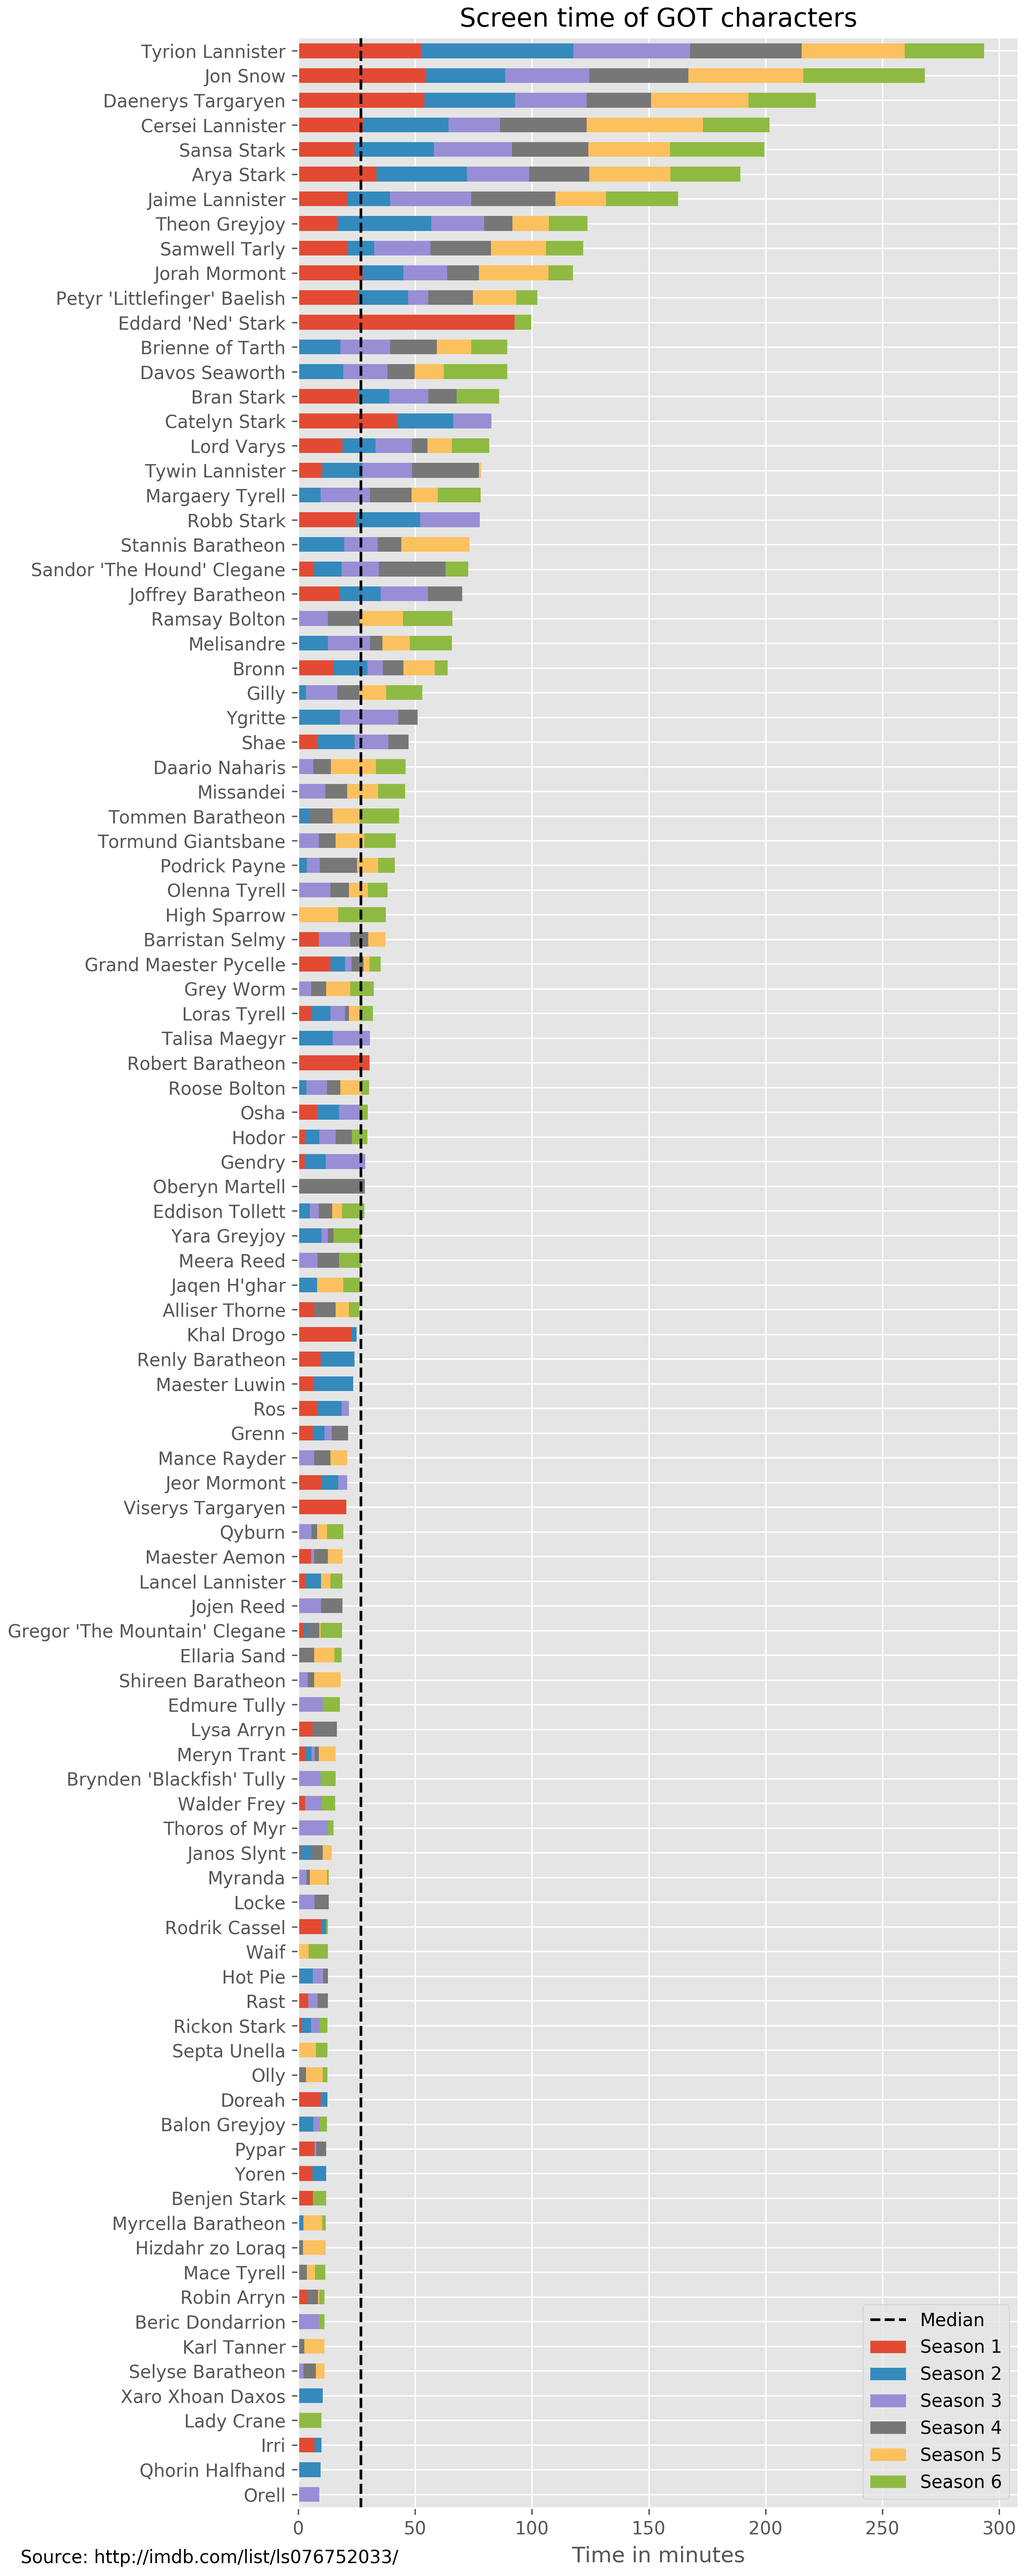
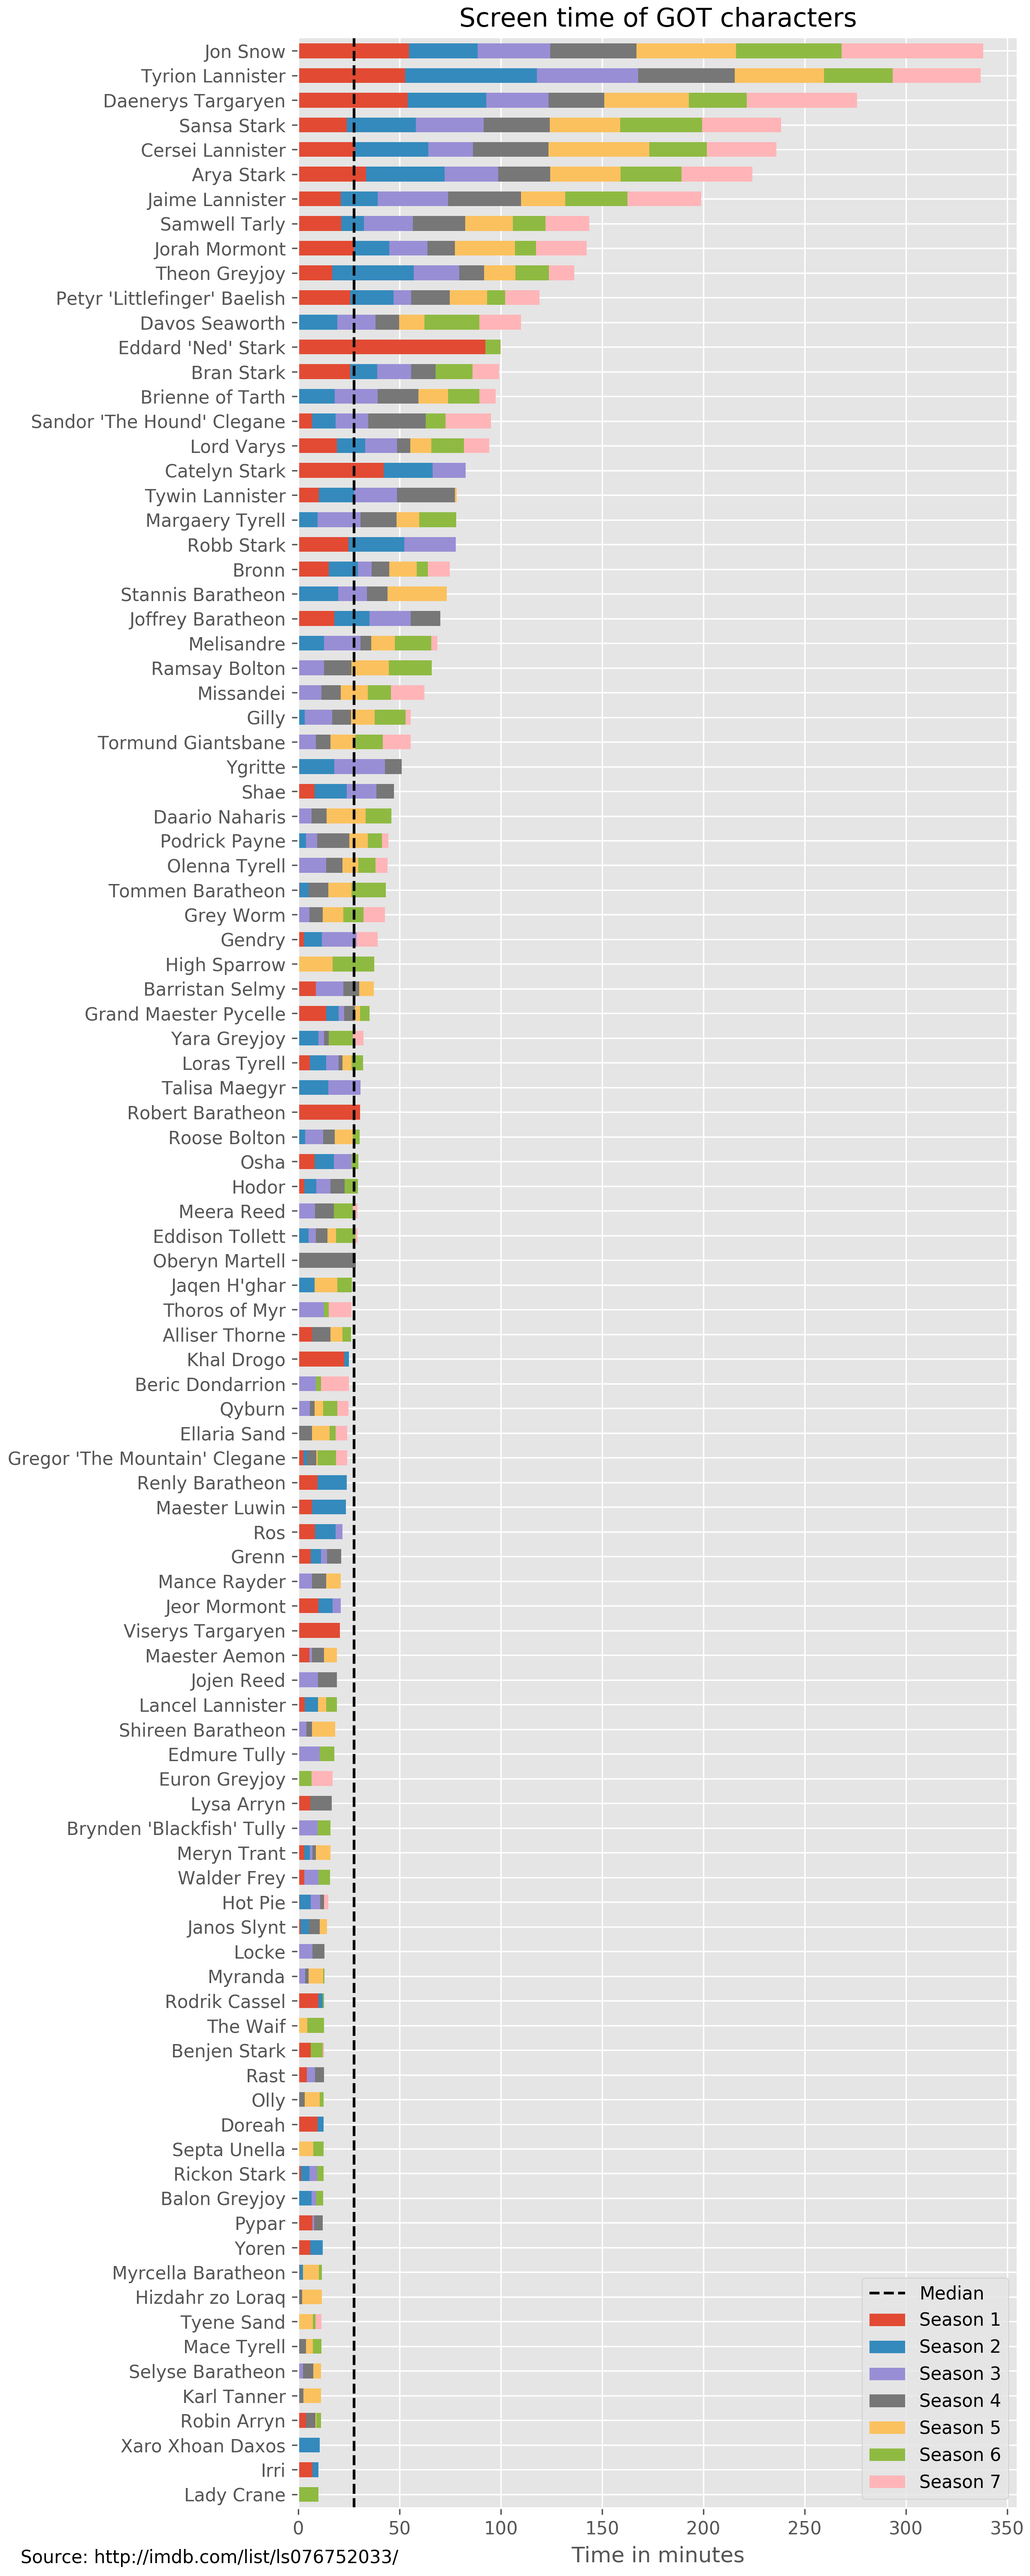
added death of characters to parse and csv

diff --git a/parse_imdb.py b/parse_imdb.py
@@ -21,33 +21,123 @@ def float_to_time(value):
     else:
         return "0:{0}".format(int(value*60))
 
-# I downloaded the page an saved as data.html
-soup = BeautifulSoup(open("data.html"), "html.parser")
+def generate_csv():
+    """
+    Generates a CSV with the name of the character, the chapter of their
+    death and the hours in every season
+    """
 
-mydivs = soup.find_all("div", class_=["info", "description"])[1:]
+    soup = BeautifulSoup(r.get('http://imdb.com/list/ls076752033/').text, "html.parser")
 
-name_regex = re.compile(r">(.*?)</a>")
+    mydivs = soup.find_all("div", class_=["info", "description"])[1:]
 
-season_regex = re.compile(r"\* [Ss]eason (\d):.*<(.*)>")
+    name_regex = re.compile(r">(.*?)</a>")
 
-characters = dict()
-for div in mydivs:
-    if div.a:
-        text = str(unescape(div.a))
-        character = name_regex.findall(text)[0]
-        characters[character] = [0, 0, 0, 0, 0, 0, 0]
+    season_regex = re.compile(r"\* [Ss]eason (\d):.*<(.*)>")
+
+    characters = dict()
+    for div in mydivs:
+        if div.a:
+            text = str(unescape(div.a))
+            character = name_regex.findall(text)[0]
+            characters[character] = [0, 0, 0, 0, 0, 0, 0]
+        else:
+            for children in div.children:
+                if "NavigableString" in type(children).__name__:
+                    text = str(children)
+                    duration = season_regex.findall(text)
+                    if duration:
+                        season, time = duration[0]
+                        characters[character][int(season) - 1] += time_to_float(time)
+
+
+    with open("all_seasons.csv", "w") as db:
+        db.write("actor,death,season_1,season_2,season_3,season_4,season_5,season_6,season_7\n")
+        for character in characters:
+            print("current: %s" % character, flush=True)
+            db.write("{0},{1},{2}\n".format(
+                character,
+                is_dead(character),
+                ",".join(list(
+                    map(float_to_time, characters[character])))
+                    )
+                )
+
+
+def parse_chapter_page(url):
+    """
+    Parse the page of a chapter getting the season and the chapter
+    in the format SxxExx
+    """
+    page_request = r.get('http://gameofthrones.wikia.com%s' % url)
+    if page_request.status_code == 200:
+        page_text = page_request.text
     else:
-        for children in div.children:
-            if "NavigableString" in type(children).__name__:
-                text = str(children)
-                duration = season_regex.findall(text)
-                if duration:
-                    season, time = duration[0]
-                    characters[character][int(season) - 1] += time_to_float(time)
+        print("No se pudo encontrar %s" % name.replace("_", " "))
+        return None
 
-with open("all_seasons.csv", "w") as db:
-    db.write("actor;season_1;season_2;season_3;season_4;season_5;season_6;season_7\n")
-    for character in characters:
-        db.write("{0};{1}\n".format(
-            character,
-            ";".join(list(map(float_to_time, characters[character])))))
+    bs = BeautifulSoup(page_text, 'html.parser')
+    # left column of gameofthrones.wikia
+    mydivs = bs.find_all("td",
+        class_=["pi-horizontal-group-item pi-data-value pi-font pi-border-color pi-item-spacing"])
+
+    season, episode = (None, None)
+    for tag in  mydivs:
+        if 'Season' in tag.text:
+            season = int(tag.text.replace("Season ", ""))
+        if 'Episode' in tag.text:
+            episode = int(tag.text.replace("Episode ", ""))
+
+    if not season or not episode:
+        print("check this one")
+        return "S00E00"
+
+    return "S%02dE%02d" % (season, episode)
+
+def is_dead(name):
+    """
+    If the character is dead, returns the chapter of his death.
+    If not, returns None
+    """
+    if name == 'Grand Maester Pycelle':
+        name = 'Pycelle'
+
+    # removing nickname to search in gameofthrones.wikia
+    nickname_regex = re.compile("'.*?' ?")
+    name = nickname_regex.sub("", name)
+    name = name.replace(" ", "_")
+
+    page_request = r.get('http://gameofthrones.wikia.com/wiki/%s' % name)
+    if page_request.status_code == 200:
+        page_text = page_request.text
+    else:
+        print("No se pudo encontrar %s" % name.replace("_", " "))
+        return None
+
+        
+    bs = BeautifulSoup(page_text, 'html.parser')
+    # left column of gameofthrones.wikia
+    mydivs = bs.find_all("div", \
+        class_=["pi-item pi-data pi-item-spacing pi-border-color"])
+
+    dead = False
+    for div in mydivs:
+        for tag in div:
+            if tag.name == 'h3' and tag.text == 'Death':
+                # print("%s:  ☠" % name.replace("_", " "), end=' ')
+                dead = True
+                continue
+
+            if dead and tag.name == 'h3' and tag.text == 'Death shown in episode':
+                # we need to do this twice cause reasons.
+                tag = tag.next_sibling
+                tag = tag.next_sibling
+                return parse_chapter_page(tag.a['href'])
+
+
+    if not dead:
+       return None
+
+
+generate_csv()
+

diff --git a/plot.py b/plot.py
@@ -5,6 +5,7 @@ import numpy as np
 
 plt.style.use("ggplot")
 
+SEASONS = list(map(lambda x: "Season %d" % x, range(1, 8)))
 
 # the time is stored as minutes:seconds, ignoring if they make more than
 # one hour.
@@ -20,7 +21,7 @@ def plot_by_time(df):
     fig = plt.figure(figsize=(8,20))
     ax = fig.add_subplot(111)
     
-    df.plot.barh(ax=ax, x='actor', y=df.columns[1:len(df.columns)-1], \
+    df.plot.barh(ax=ax, x='actor', y=df.columns[2:len(df.columns)-1], \
                     stacked=True, width=.6)
 
     ax.axvline(df.median()['total'], color='black', linestyle="dashed")
@@ -30,9 +31,9 @@ def plot_by_time(df):
     ax.set_xlabel("Time in minutes")
     fig.tight_layout(pad=0.4, w_pad=0.5, h_pad=1.0)
     plt.legend()
-    ax.legend(["Median", "Season 1", "Season 2", "Season 3", "Season 4", "Season 5", "Season 6"])
+    ax.legend(["Median"] + SEASONS)
     fig.text(.02, .005, "Source: http://imdb.com/list/ls076752033/")
-    fig.savefig("all_actors.png", dpi=300, format="png")
+    fig.savefig("out/all_actors.png", dpi=300, format="png")
 
 
 def plot_by_time_by_season(df):
@@ -42,7 +43,7 @@ def plot_by_time_by_season(df):
     cmap = plt.get_cmap('Set1')
     colors = [cmap(i) for i in np.linspace(0, 1, 6)]
 
-    for season in df.columns[1:len(df.columns)-1]:
+    for season in df.columns[2:len(df.columns)-1]:
         # we need to sort depending of the season.
         temp = df.sort_values(by=season)
 
@@ -59,7 +60,7 @@ def plot_by_time_by_season(df):
     
     fig.tight_layout(pad=0.4, w_pad=0.5, h_pad=1.0)
     fig.text(.02, .005, "Source: http://imdb.com/list/ls076752033/")
-    fig.savefig("char_by_season.png", dpi=300, format="png")
+    fig.savefig("out/char_by_season.png", dpi=300, format="png")
 
 def by_house(df):
     # in most cases, last name is the house.
@@ -78,15 +79,15 @@ def by_house(df):
 
     grouped = grouped.reset_index().sort_values(by='total')
 
-    grouped.iloc[-10:].plot.barh(ax=ax, x='house', y=df.columns[1:len(df.columns)-2], \
+    grouped.iloc[-10:].plot.barh(ax=ax, x='house', y=df.columns[2:len(df.columns)-2], \
                     stacked=True, width=.6)
 
-    ax.legend(["Season 1", "Season 2", "Season 3", "Season 4", "Season 5", "Season 6"])
+    ax.legend(SEASONS)
     ax.set_title("Screen time by house")
     ax.set_xlabel("Minutes")
 
     plt.tight_layout(pad=0.4, w_pad=0.5, h_pad=1.0)
-    fig.savefig("by_house.png", dpi=300, format="png")
+    fig.savefig("out/by_house.png", dpi=300, format="png")
 
 def by_season(df):
     # in most cases, last name is the house.
@@ -123,21 +124,21 @@ def by_season(df):
         plt.tight_layout(pad=0.4, w_pad=0.5, h_pad=1.0)
 
     fig.text(.02, .005, "Source: http://imdb.com/list/ls076752033/")
-    fig.savefig("by_season.png", dpi=300, format="png")
+    fig.savefig("out/by_season.png", dpi=300, format="png")
 
 
-df = pd.read_csv("all_seasons.csv", sep=";")
+df = pd.read_csv("all_seasons.csv")
 df['total'] = 0
-for col in df.columns[1:len(df.columns) - 1]:
+for col in df.columns[2:len(df.columns) - 1]:
     df[col] = df[col].map(time_to_float)
     df['total'] += df[col]
 
 df = df.sort_values(by="total")
-for season in df.columns[1:len(df.columns)-1]:
+for season in df.columns[2:len(df.columns)-1]:
     print(df[season].sum() / 60)
 
 # Just uncomment the plot you want
-#plot_by_time(df)
+plot_by_time(df)
 #plot_by_time_by_season(df)
 #by_house(df)
 #by_season(df)
